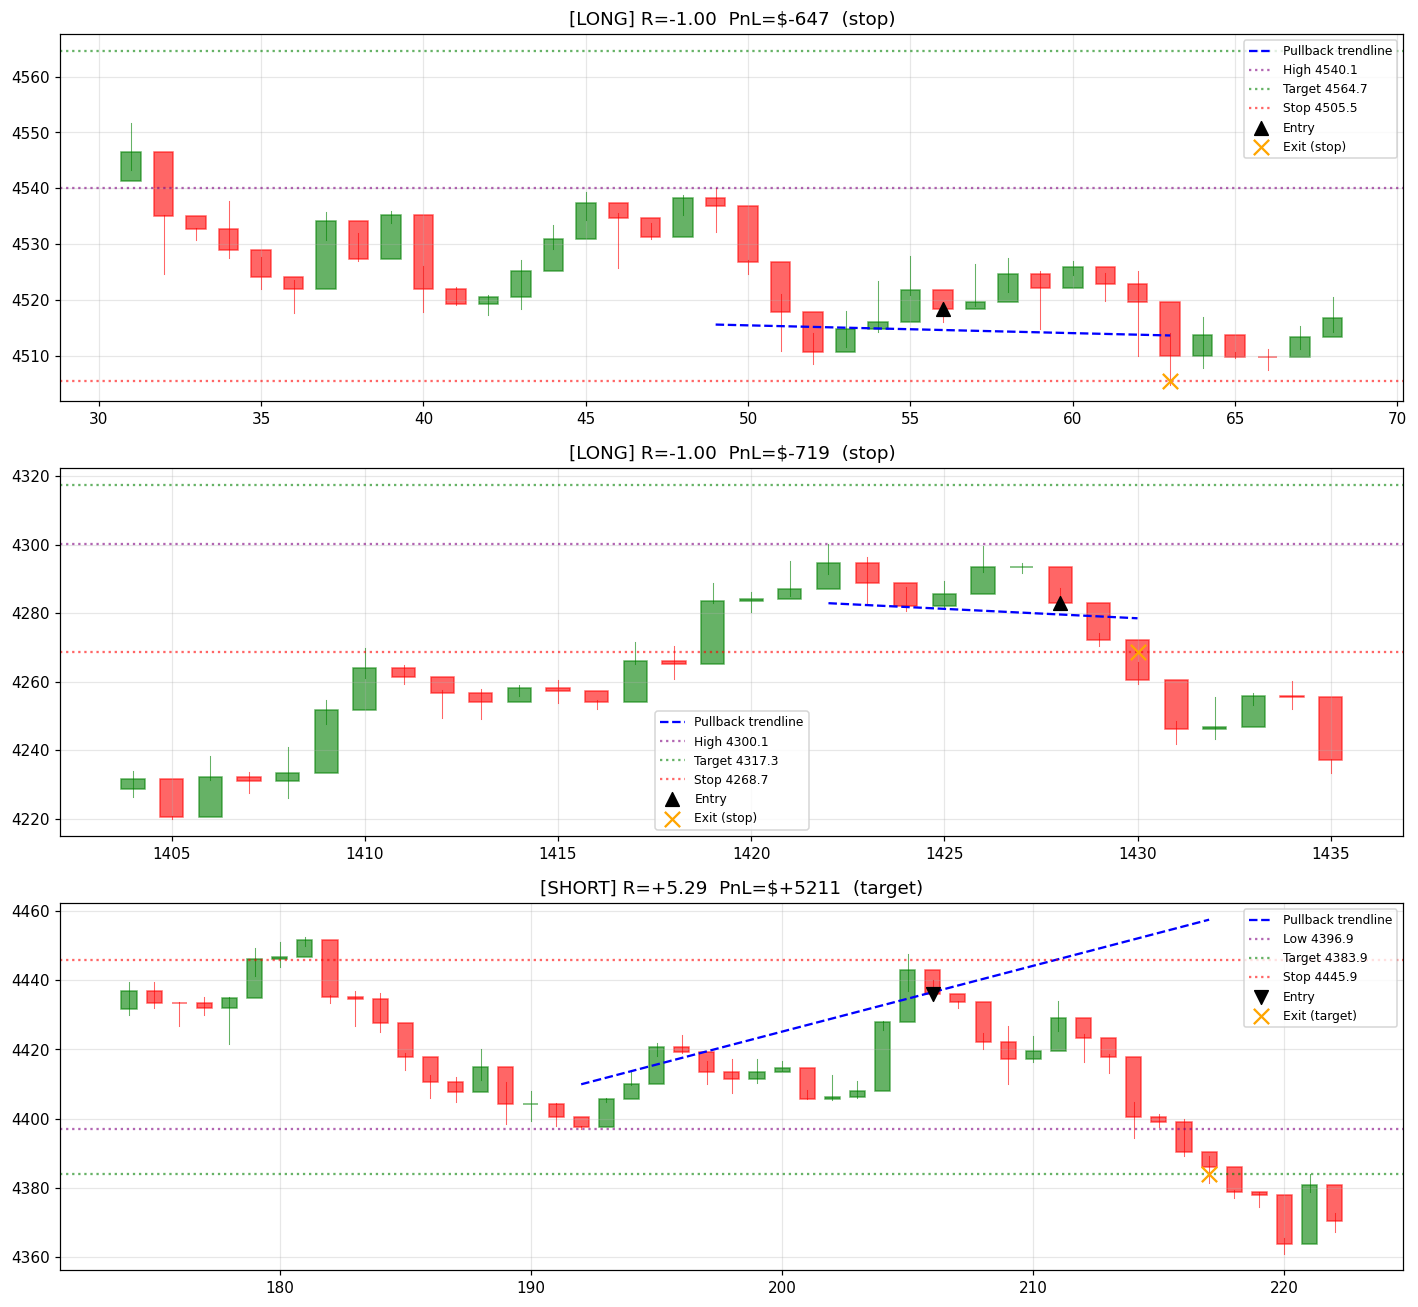
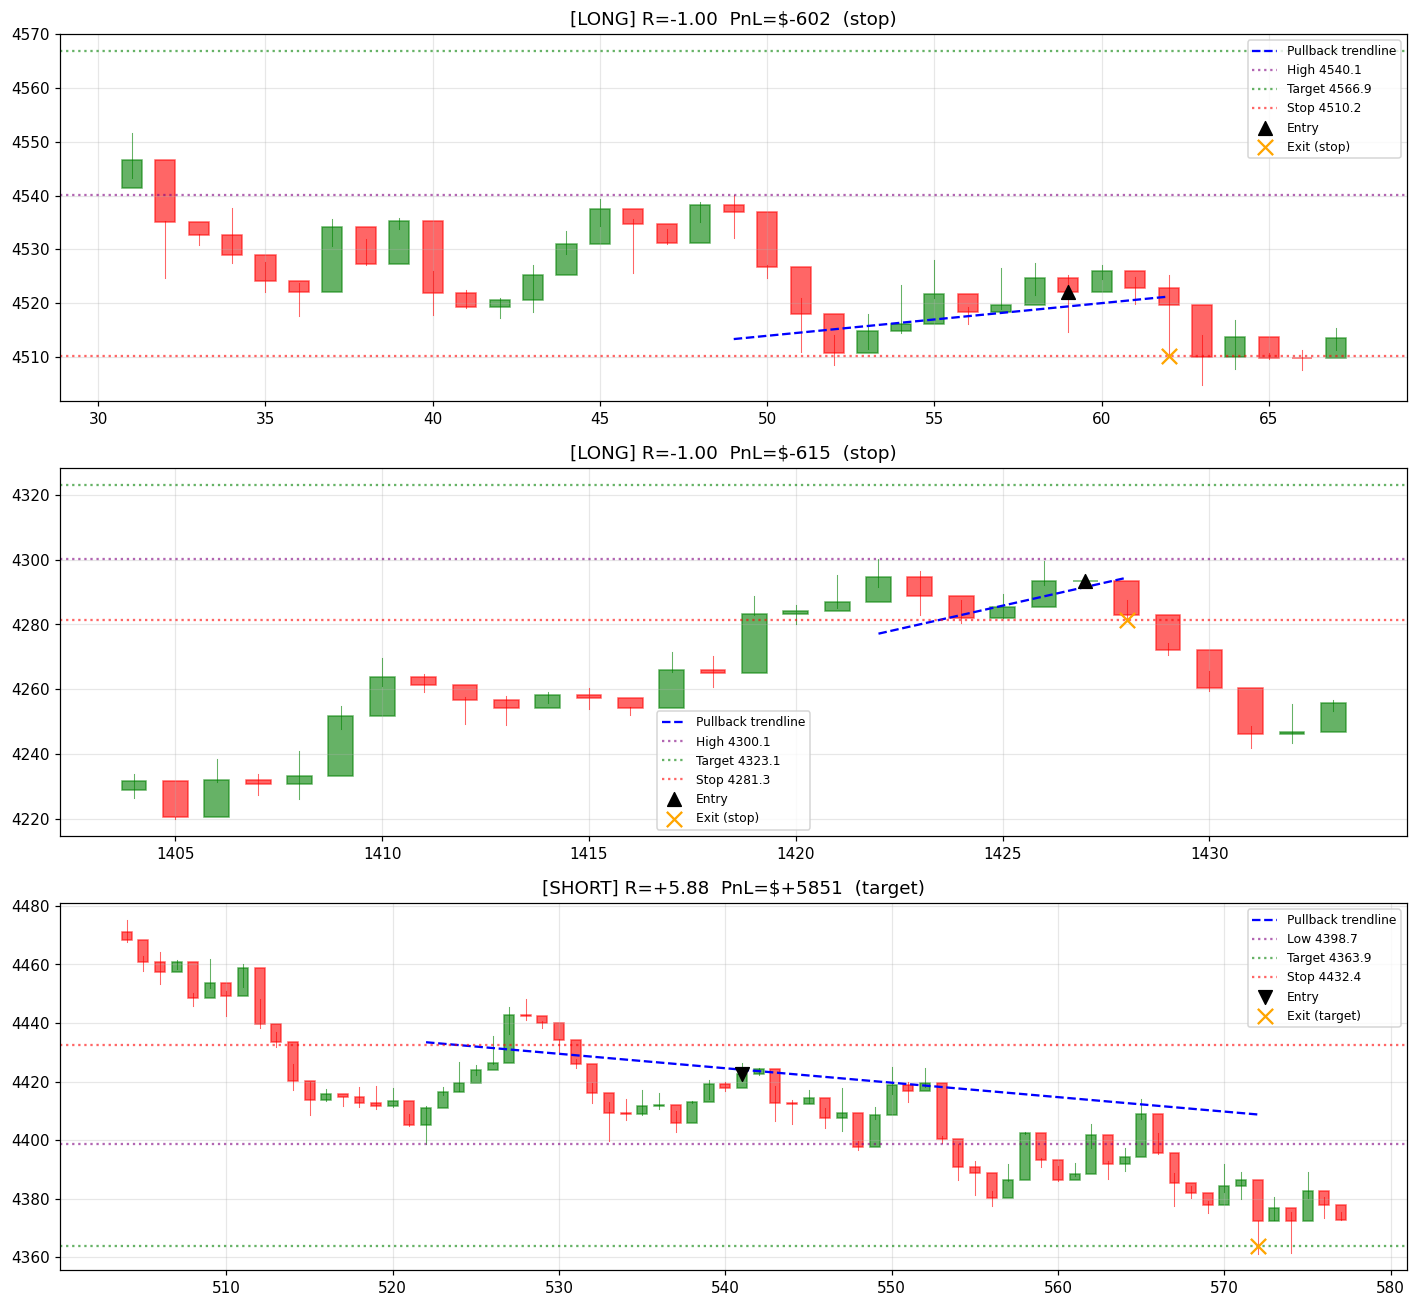
Add RTH filter, trendline slope filter, raise impulse threshold
Three quality filters applied simultaneously:

1. RTH-only filter (use_rth_filter=True): strips 4H bars outside
   09:30-16:00 ET, removing overnight/Asian-session noise that was
   generating false trendline touch entries on thin markets.

2. Trendline slope filter: shorts now require pullback highs to be
   declining (slope < 0); longs require pullback lows to be rising
   (slope > 0). Eliminates flat/choppy pullbacks with no clear structure.

3. impulse_atr_mult 2.0 -> 2.5: only stronger, cleaner impulses qualify,
   reducing setups triggered by routine noise rather than real momentum.

Synthetic result: 46 trades, 37% WR, +0.34R expectancy, +14.3% return,
-5.3% max drawdown (vs 90 trades, 28% WR, 0.00R, -12.7% DD before).

https://claude.ai/code/session_01RPqrcd3oRb5PaVE6Pknf8g

diff --git a/little_rzy_backtest.py b/little_rzy_backtest.py
@@ -33,7 +33,7 @@ class Params:
     ema_period: int = 50              # price above EMA = uptrend, below = downtrend
 
     # Impulse detection
-    impulse_atr_mult: float = 2.0     # impulse must move >= 2 ATR
+    impulse_atr_mult: float = 2.5     # impulse must move >= 2.5 ATR (was 2.0)
     impulse_max_bars: int = 8
     atr_period: int = 14
 
@@ -59,6 +59,12 @@ class Params:
     use_exhaustion_filter: bool = True
     max_rzy_per_trend: int = 2        # only first 2 RZYs per trend
 
+    # RTH filter: only keep 4H bars that open during Regular Trading Hours
+    # ES RTH = 09:30–16:00 ET. Bars starting at 09:00 or 13:00 ET cover RTH.
+    use_rth_filter: bool = True
+    rth_start_hour: int = 9           # ET hour (inclusive)
+    rth_end_hour: int = 16            # ET hour (exclusive)
+
     # Backtest engine
     starting_capital: float = 100_000
     commission_per_trade: float = 4.0  # ES futures roundtrip estimate
@@ -70,6 +76,18 @@ P = Params()
 # =============================================================================
 # DATA LOADING
 # =============================================================================
+def apply_rth_filter(df: pd.DataFrame) -> pd.DataFrame:
+    """Keep only 4H bars whose open falls within RTH hours (ET)."""
+    idx = df.index
+    if idx.tz is None:
+        idx = idx.tz_localize("UTC")
+    idx_et = idx.tz_convert("America/New_York")
+    mask = (idx_et.hour >= P.rth_start_hour) & (idx_et.hour < P.rth_end_hour)
+    filtered = df[mask]
+    print(f"  RTH filter: {len(df)} -> {len(filtered)} bars")
+    return filtered
+
+
 def load_yahoo() -> pd.DataFrame:
     import yfinance as yf
     print("  Pulling ES=F from Yahoo Finance (1H, 730 days)...")
@@ -80,6 +98,8 @@ def load_yahoo() -> pd.DataFrame:
         "open": "first", "high": "max", "low": "min",
         "close": "last", "volume": "sum",
     }).dropna()
+    if P.use_rth_filter:
+        df = apply_rth_filter(df)
     return df
 
 
@@ -302,6 +322,11 @@ def detect_short_structures(df: pd.DataFrame) -> list[RZYStructure]:
             continue
         slope, intercept = np.polyfit(x, y, 1)
 
+        # Slope filter: pullback highs must be declining (resistance sloping down)
+        if slope >= 0:
+            i += 1
+            continue
+
         measured = (slope * low_iloc + intercept) - lowest_low
         if measured <= 0:
             i += 1
@@ -403,6 +428,11 @@ def detect_long_structures(df: pd.DataFrame) -> list[RZYStructure]:
             i += 1
             continue
         slope, intercept = np.polyfit(x, y, 1)
+
+        # Slope filter: pullback lows must be rising (support sloping up)
+        if slope <= 0:
+            i += 1
+            continue
 
         measured = highest_high - (slope * high_iloc + intercept)
         if measured <= 0:
